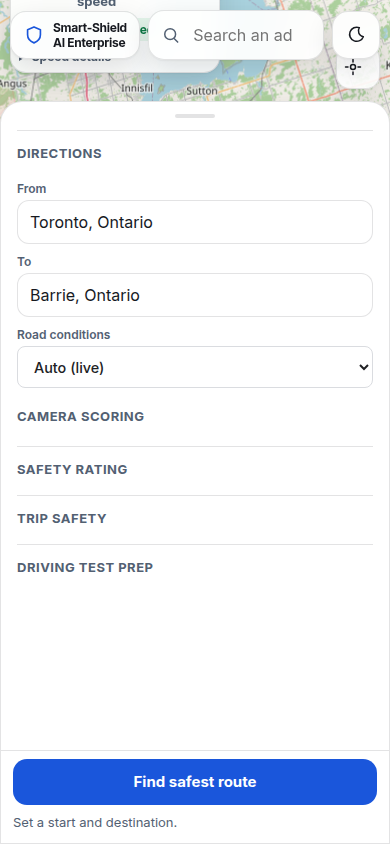
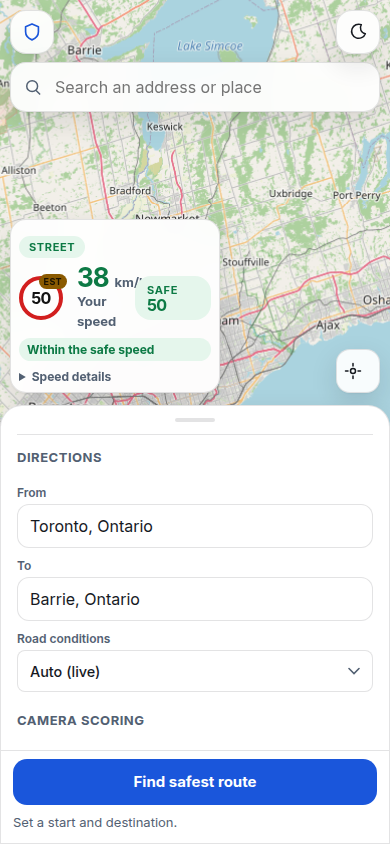
Refresh the map screenshots after the final layout polish.
The pictures now show both route pins, a solid panel header, the phone search row, and dark night-mode dropdowns.

diff --git a/docs/UI_UPDATE_2026-09.md b/docs/UI_UPDATE_2026-09.md
@@ -110,22 +110,22 @@ On Render, set `SMART_SHIELD_KEY` on the web service (Environment), then redeplo
 
 ## Pictures
 
-Day, 1280×800. One panel, Toronto to Barrie, speed widget in the corner, Find safest route in the footer.
+Day, 1280×800. Toronto and Barrie are both on the map, and the line stays clear of the panel and the speed widget. The footer is Find safest route.
 
 ![Day desktop at 1280 by 800](ui-update-2026-09/desktop-day-1280.png)
 
-Day, 1024×640. The same screen at a shorter window. The form and the footer button stay visible.
+Day, 1024×640. The same drive in a shorter window. The Barrie pin stays below the top edge, and Find safest route stays in the footer.
 
 ![Day desktop at 1024 by 640](ui-update-2026-09/desktop-day-1024.png)
 
-Night, 1280×800. The same OpenStreetMap tiles with the night filter. Panel text stays readable.
+Night, 1280×800. The same tiles with the night filter. Road conditions shows Auto (live) on the dark field, not a white box.
 
 ![Night desktop at 1280 by 800](ui-update-2026-09/desktop-night-1280.png)
 
-Driving test prep at Downsview. The legend, an 8.3 km G2 loop, and Build practice loop as the only footer button. The line starts and ends at the centre.
+Driving test prep at Downsview, scrolled to the legend. The header and search stay solid, so the trip score does not show through above the search field. The loop is the 8.3 km G2 circuit, and Build practice loop is the footer button.
 
 ![Downsview practice loop](ui-update-2026-09/desktop-test-prep.png)
 
-Phone, 390×844, sheet expanded. Directions and the other sections, with Find safest route as the only footer button.
+Phone, 390×844. The top row is the shield icon. Search is the full row under it. The speed widget sits on the left, just above the bottom sheet, clear of the top bar.
 
 ![Mobile sheet](ui-update-2026-09/mobile-day.png)
